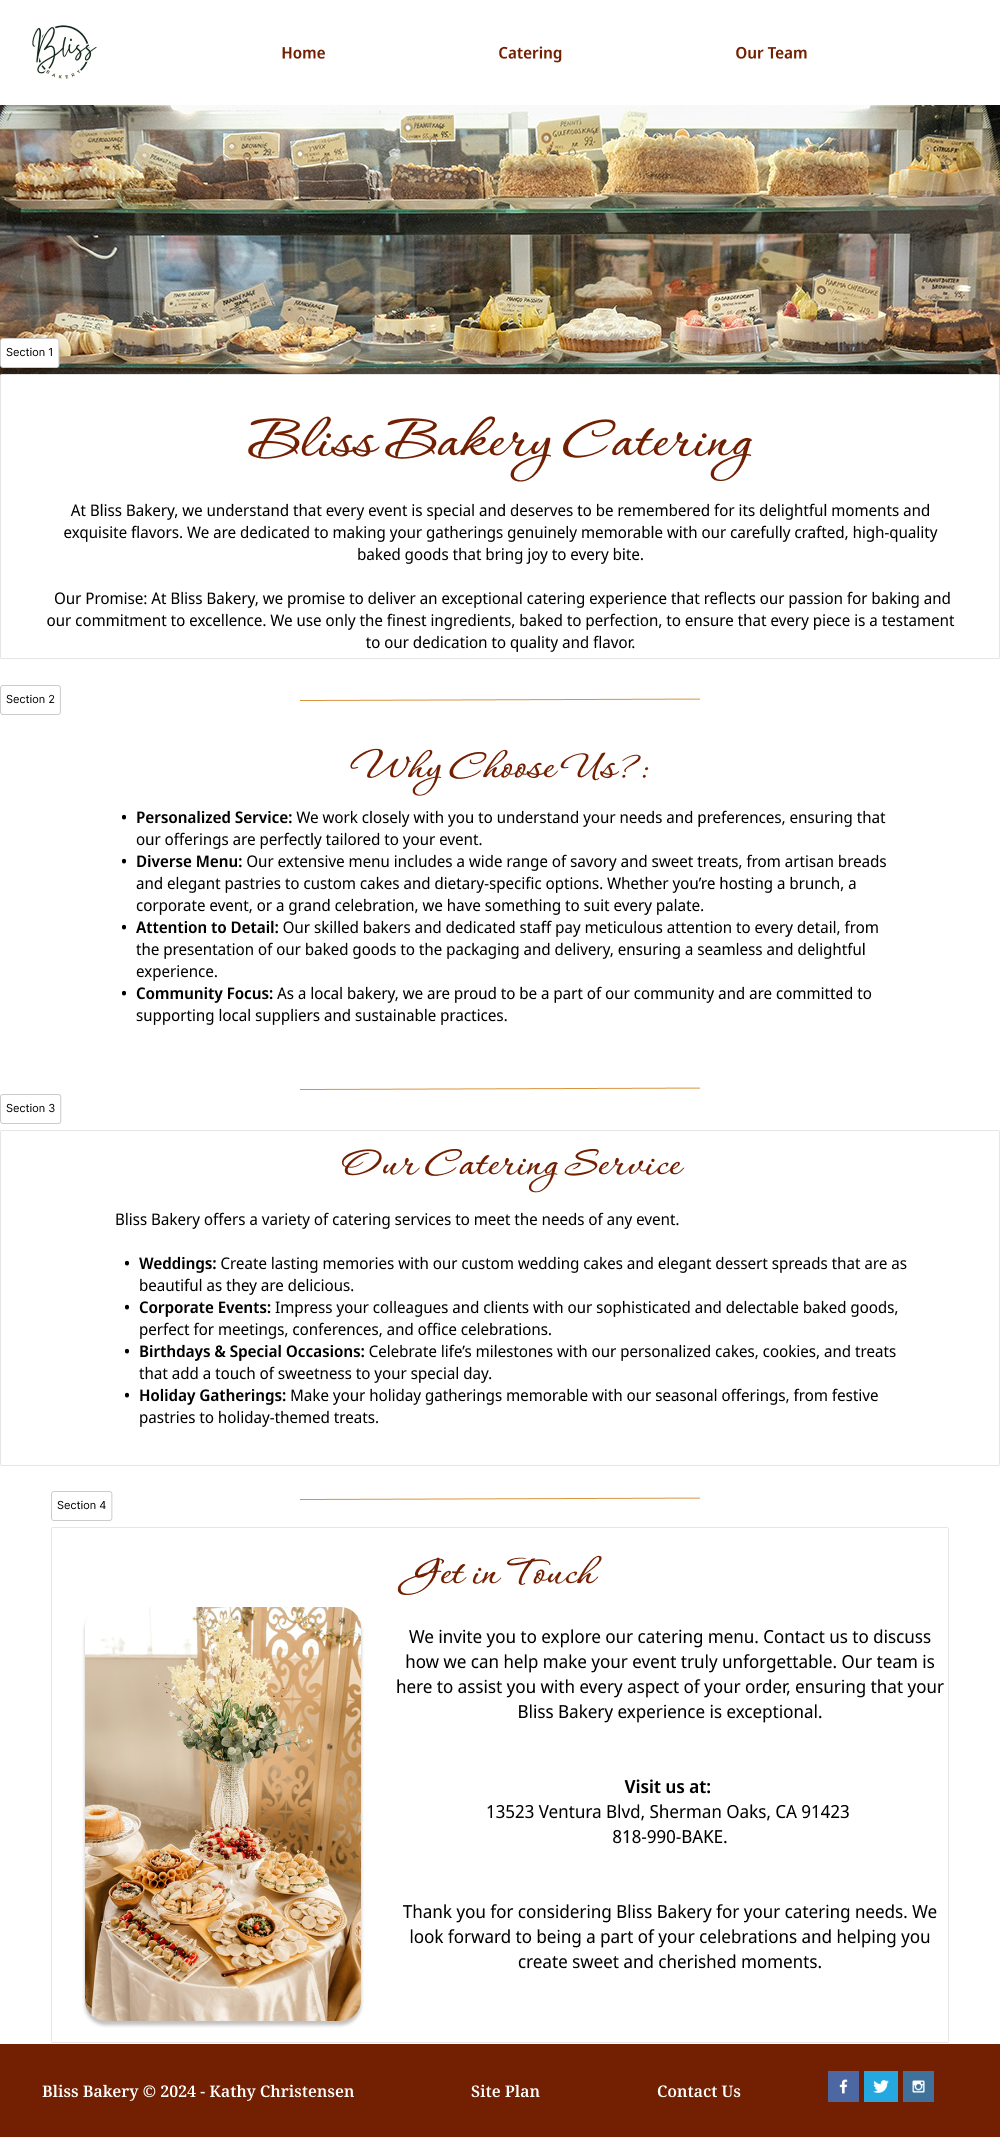
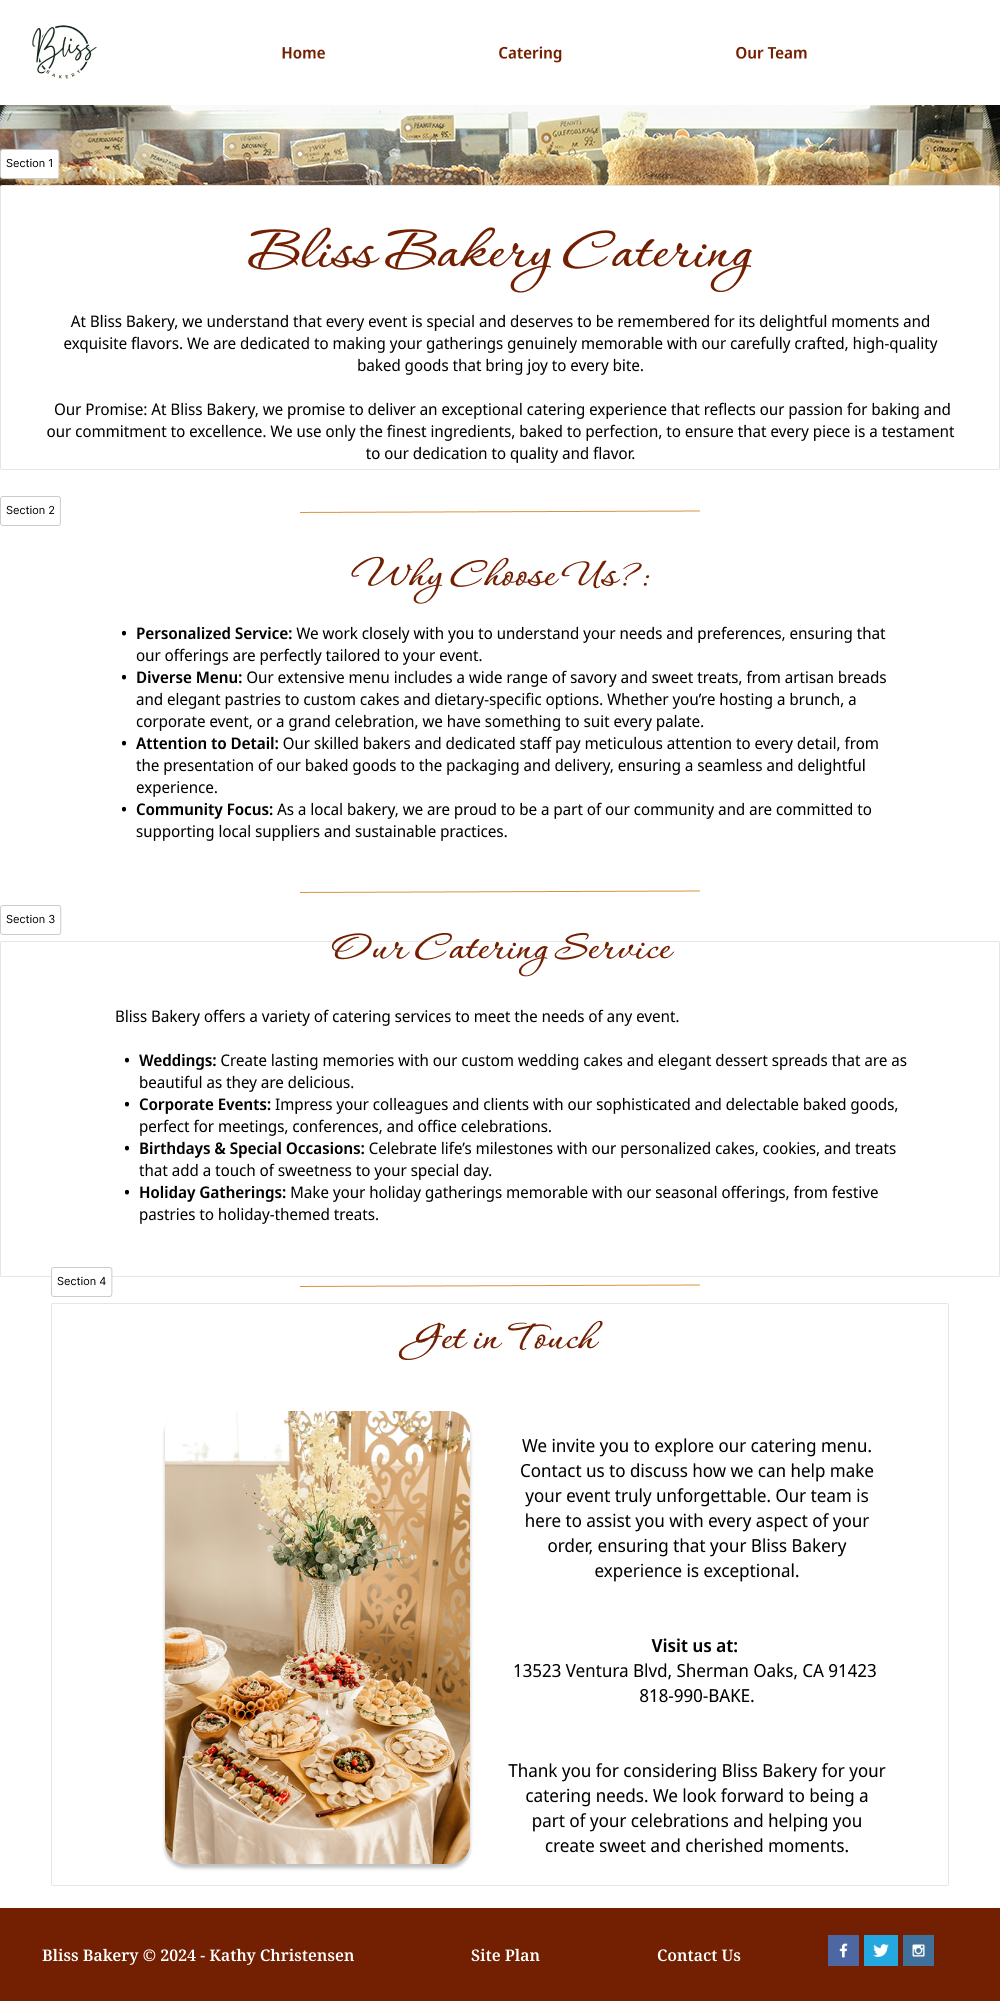
tweeking child1

diff --git a/bliss/styles/style.css b/bliss/styles/style.css
@@ -3,7 +3,7 @@
 body {
     background-color:white; 
     font-family: 'Noto', Arial, Helvetica, sans-serif;
-    font-size : 16px;
+    font-size : 19px;
     margin: 0;
     padding: 0;
     width:100%;
@@ -221,33 +221,37 @@ main section {
     font-weight: 550;
 }
 
+#cater-touch {
+    width: 90%;
+    margin: 35px auto 50px auto;
+    grid-template-columns: 300px auto;
+    grid-column: 1/2;
+    text-align: center;
+}
+
 #cater-wrapper {
     display: inline-block;
     vertical-align: middle;
-    margin-left: 90px;
-    margin-top: 35px;
+    
 }
 
 #cater-img {
-    width: 400px;
+    max-width: 90%;
+    height: auto;
     border-radius: 8px;
     box-shadow: 3px 3px 5px #6f7364;
 }
 
 #intouch {
     display: inline-block;
-    max-width: 500px;
+    max-width:32%;
     text-align: center;
-    padding-left: 65px;
-    padding-right: 65px;
-    font-size: 17px;
+    padding-left: 2vw;
+    padding-right: 0px;
+    font-size: 19px;
     vertical-align: middle;
     margin-top: 10px;
-}
-
-#cater-touch {
-    width: 90%;
-    margin: auto;
+    grid-column: 2/3;
 }
 
 hr {
